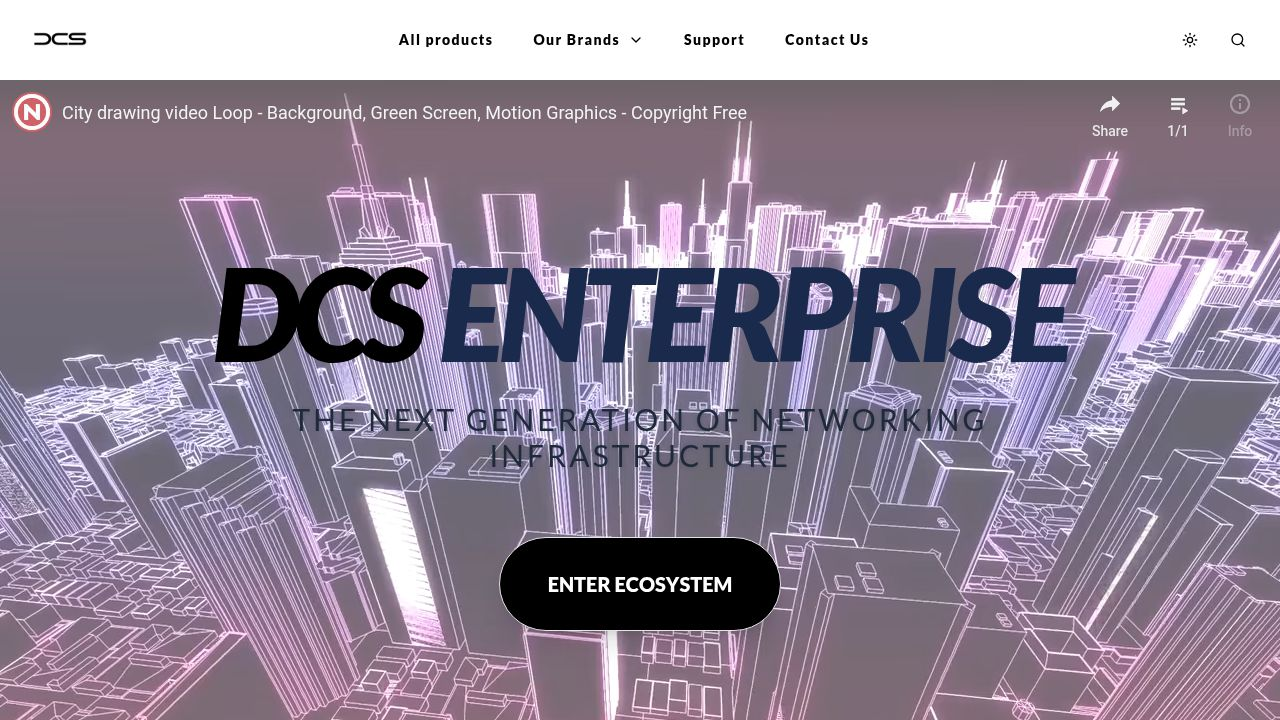
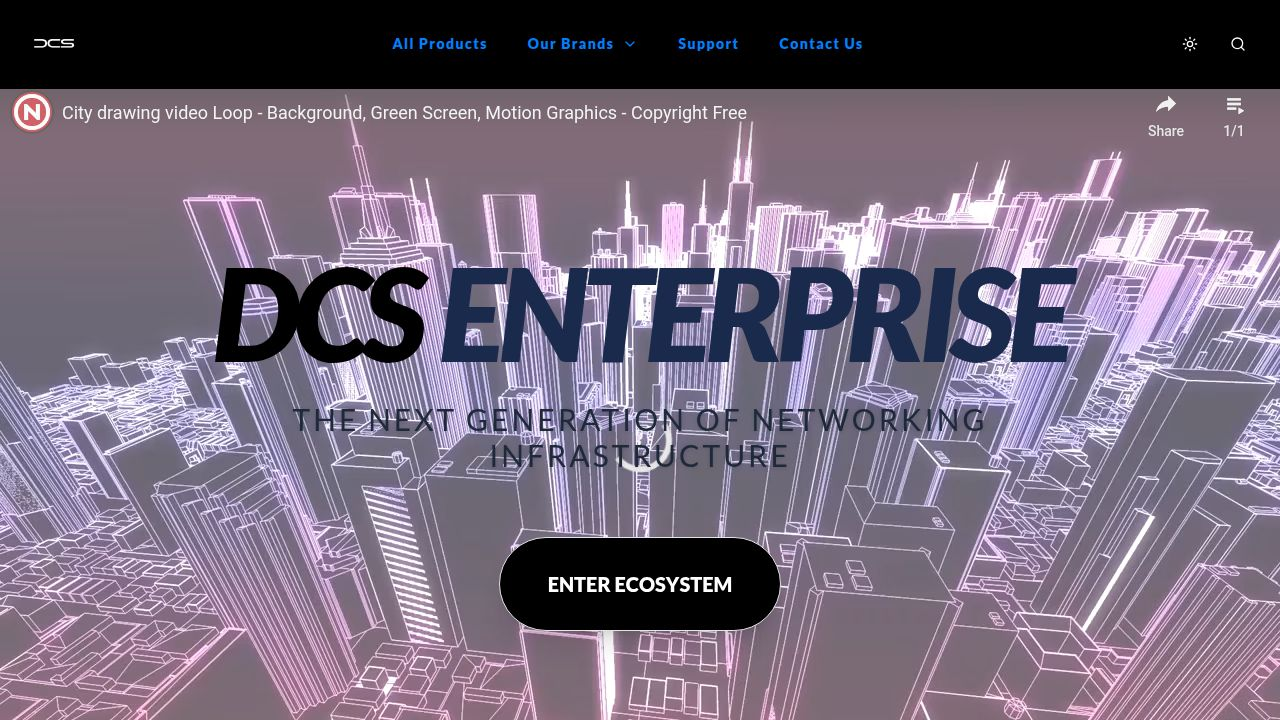
Update website navigation and routing for new brand pages
Add new routes for Mikrotik, ALGcom, and V-SOL brand pages, and update navigation links to point to these new routes.

Replit-Commit-Author: Agent
Replit-Commit-Session-Id: aaabdfcc-5a65-4287-9cb0-7b4021ad3c90
Replit-Commit-Checkpoint-Type: full_checkpoint
Replit-Commit-Event-Id: 2361685a-e30b-45cf-8225-0023e241965c
Replit-Commit-Screenshot-Url: https://storage.googleapis.com/screenshot-production-us-central1/955c7266-6028-4f66-9b85-2a13a44151a1/aaabdfcc-5a65-4287-9cb0-7b4021ad3c90/NoKXNt9
Replit-Helium-Checkpoint-Created: true

diff --git a/client/src/components/layout.tsx b/client/src/components/layout.tsx
@@ -1,16 +1,10 @@
 import { Link, useLocation } from "wouter";
 import {
   Search,
-  ShoppingCart,
-  Menu,
-  X,
   ChevronDown,
   Sun,
   Moon,
-  MessageCircle,
-  HelpCircle,
-  Share2,
-  ArrowRight
+  
 } from "lucide-react";
 import { useState, useEffect } from "react";
 import { Button } from "@/components/ui/button";
@@ -24,8 +18,6 @@ export default function Layout({ children }: { children: React.ReactNode }) {
   const [scrolled, setScrolled] = useState(false);
   const [theme, setTheme] = useState(() => localStorage.getItem("theme") || "light");
   const [isSearchOpen, setIsSearchOpen] = useState(false);
-  const [isChatOpen, setIsChatOpen] = useState(false);
-  const [selectedBrand, setSelectedBrand] = useState<string | null>(null);
   const [currentBrand, setCurrentBrand] = useState("Our Brands");
 
   useEffect(() => {
@@ -42,10 +34,20 @@ export default function Layout({ children }: { children: React.ReactNode }) {
 
   const brands = [
     { name: "Ubiquiti", path: "/home-ubiquiti" },
-    { name: "Mikrotik", path: "/coming-soon" },
-    { name: "ALGcom", path: "/coming-soon" },
-    { name: "V-SOL", path: "/coming-soon" }
+    { name: "Mikrotik", path: "/home-Mikrotik" },
+    { name: "ALGcom", path: "/home-ALGcom" },
+    { name: "V-SOL", path: "/home-V-SOL" }
   ];
+
+  useEffect(() => {
+    const activeBrand = brands.find((brand) => brand.path === location);
+
+    if (activeBrand) {
+      setCurrentBrand(activeBrand.name);
+    } else {
+      setCurrentBrand("Our Brands");
+    }
+  }, [location]);
 
   return (
     <div className="min-h-screen bg-background text-foreground font-sans flex flex-col relative pt-16 md:pt-20">
@@ -54,7 +56,7 @@ export default function Layout({ children }: { children: React.ReactNode }) {
         <div className="container mx-auto px-4 md:px-6 flex items-center justify-between">
           <Link href="/">
               <a
-                className="flex items-center gap-3 hover:opacity-80 transition-opacity"
+                className="flex items-center gap-3 hover:opacity-80 text-[#0080ff] transition-opacity"
                 onClick={() => setCurrentBrand("Our Brands")}
               >
                 <img
@@ -73,19 +75,23 @@ export default function Layout({ children }: { children: React.ReactNode }) {
           </Link>
 
           <nav className="hidden md:flex items-center gap-10 text-sm font-black tracking-widest">
+            
+            {/* All Products Link */}
             <Link href="/collections/all">
               <a className="hover:text-primary transition-colors text-[#0080ff]">All Products</a>
             </Link>
             
             <div className="relative group py-2">
-              <button className={cn("flex items-center gap-2 hover:text-primary transition-colors", (scrolled || !isHome) ? "text-foreground" : "text-white")}>
+              <button className={cn("flex items-center gap-2 text-[#0080ff] hover:text-primary transition-colors ")}>
                 {currentBrand} <ChevronDown className="w-4 h-4 transition-transform group-hover:rotate-180" />
               </button>
+              {/* Dropdown Menu */}
               <div className="absolute top-full left-1/2 -translate-x-1/2 pt-4 opacity-0 invisible group-hover:opacity-100 group-hover:visible transition-all duration-300 z-50">
                 <div className="bg-background border border-border rounded-[12px] shadow-2xl min-w-[220px] overflow-hidden p-2 backdrop-blur-xl bg-opacity-95">
                   {brands.map((brand) => (
-                    <Link key={brand.name} href={brand.path} onClick={() => setCurrentBrand(brand.name)}>
-                      <a className="block px-6 py-4 hover:bg-primary/10 rounded-[8px] transition-all font-black text-foreground">
+                    <Link key={brand.name} href={brand.path}>
+                      <a 
+                        className="block px-6 py-4 hover:bg-primary/10 rounded-[8px] transition-all font-black text-foreground">
                         {brand.name}
                       </a>
                     </Link>
@@ -93,13 +99,15 @@ export default function Layout({ children }: { children: React.ReactNode }) {
                 </div>
               </div>
             </div>
-
+            
+            {/* Support Link */}
             <Link href="/support">
-              <a className={cn("hover:text-primary transition-colors", (scrolled || !isHome) ? "text-foreground" : "text-white")}>Support</a>
+              <a className="hover:text-primary transition-colors text-[#0080ff]">Support</a>
             </Link>
-            {/* About Us Link */}
+            
+            {/* Contact Us Link */}
             <Link href="/support">
-              <a className={cn("hover:text-primary transition-colors", (scrolled || !isHome) ? "text-foreground" : "text-white")}>Contact Us</a>
+              <a className="hover:text-primary transition-colors text-[#0080ff]">Contact Us</a>
             </Link>
             
           </nav>
@@ -108,18 +116,18 @@ export default function Layout({ children }: { children: React.ReactNode }) {
 
           <div className="flex items-center gap-3">
             <Button variant="ghost" size="icon" onClick={toggleTheme} className={cn(
-              "rounded-full hover:bg-white/10", 
+              "rounded-full hover:bg-white/10 transition-colors", 
               (scrolled || !isHome) 
-                ? "text-foreground hover:bg-accent" 
-                : "text-white"
+                ? (theme === "light" ? "text-black hover:bg-black/5 hover:text-[#0080ff]" : "text-[#0080ff] hover:bg-white/10 hover:text-white")
+                : "text-white hover:text-primary"
             )}>
               {theme === "light" ? <Sun className="w-5 h-5" /> : <Moon className="w-5 h-5" />}
             </Button>
             <Button variant="ghost" size="icon" onClick={() => setIsSearchOpen(true)} className={cn(
-              "rounded-full hover:bg-white/10", 
+              "rounded-full hover:bg-white/10 transition-colors", 
               (scrolled || !isHome) 
-                ? "text-foreground hover:bg-accent" 
-                : "text-white"
+                ? (theme === "light" ? "text-black hover:bg-black/5 hover:text-[#0080ff]" : "text-[#0080ff] hover:bg-white/10 hover:text-white")
+                : "text-white hover:text-primary"
             )}>
               <Search className="w-5 h-5" />
             </Button>

diff --git a/client/src/App.tsx b/client/src/App.tsx
@@ -18,6 +18,9 @@ function Router() {
     <Switch>
       <Route path="/" component={Home} />
       <Route path="/home-ubiquiti" component={HomeUbiquiti} />
+      <Route path="/home-Mikrotik" component={ComingSoon} />
+      <Route path="/home-ALGcom" component={ComingSoon} />
+      <Route path="/home-V-SOL" component={ComingSoon} />
       <Route path="/collections/:category" component={Collection} />
       <Route path="/products/:id" component={ProductDetail} />
       <Route path="/support" component={Support} />
